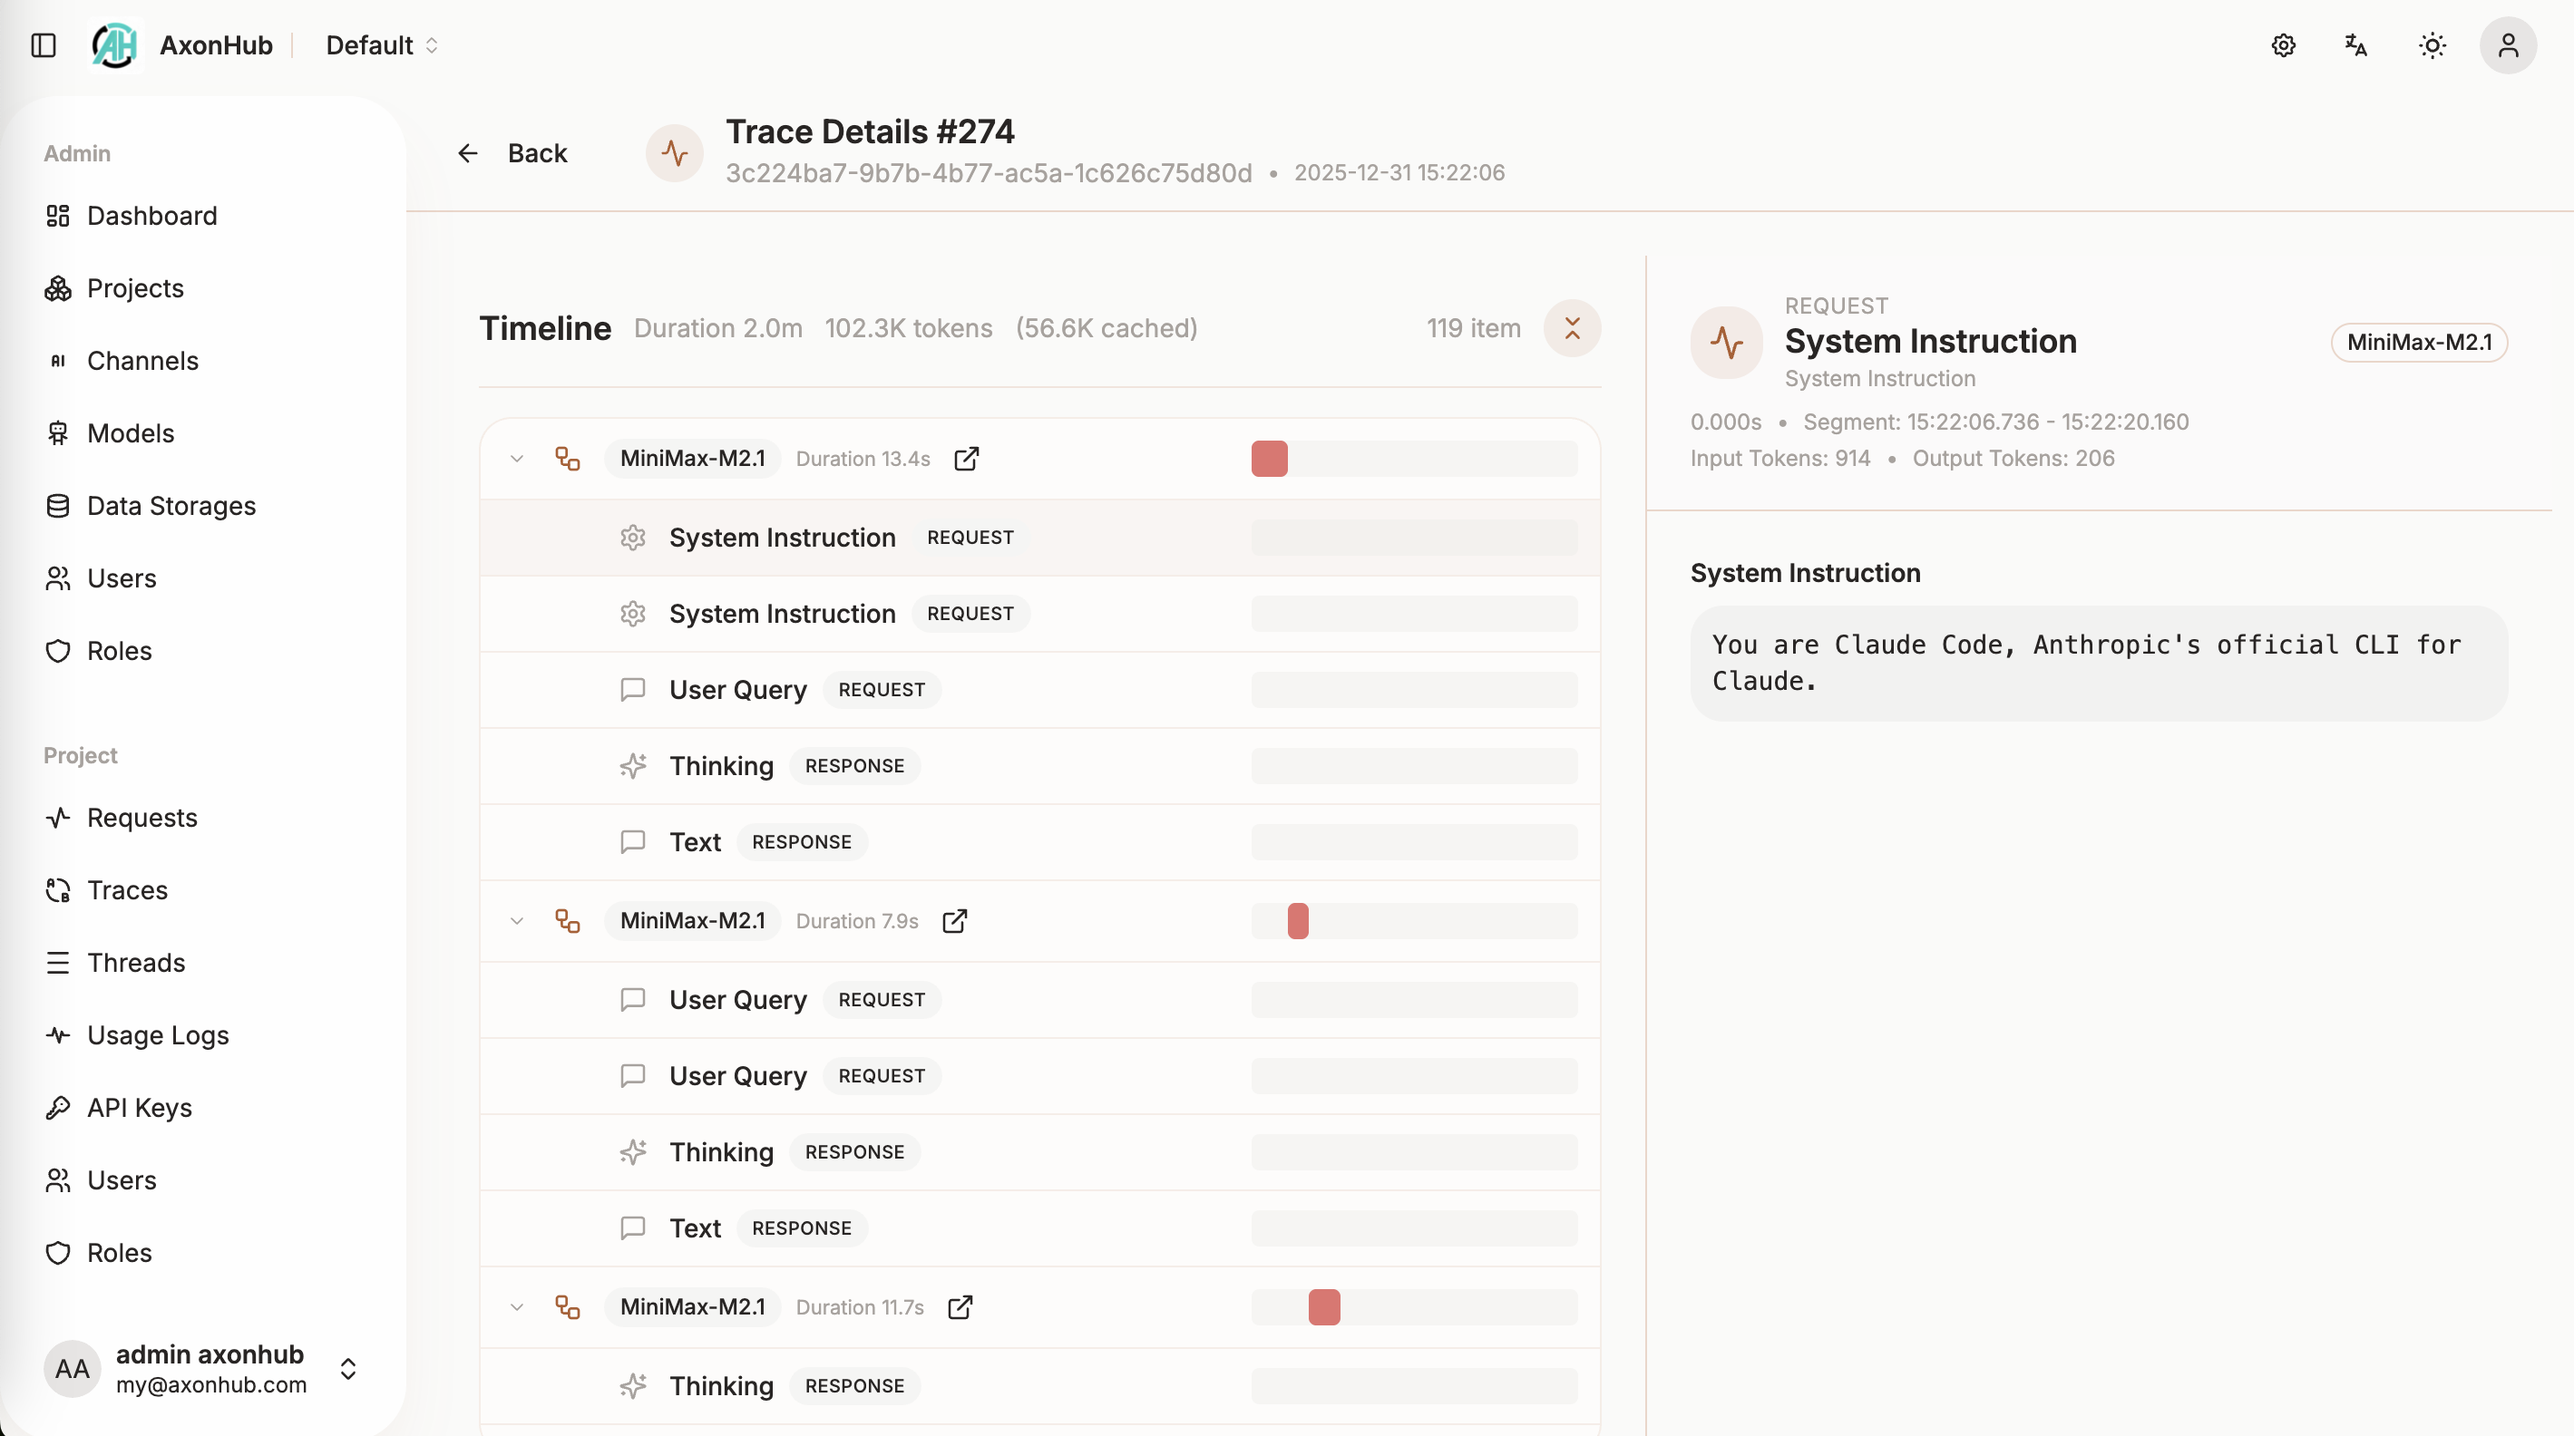
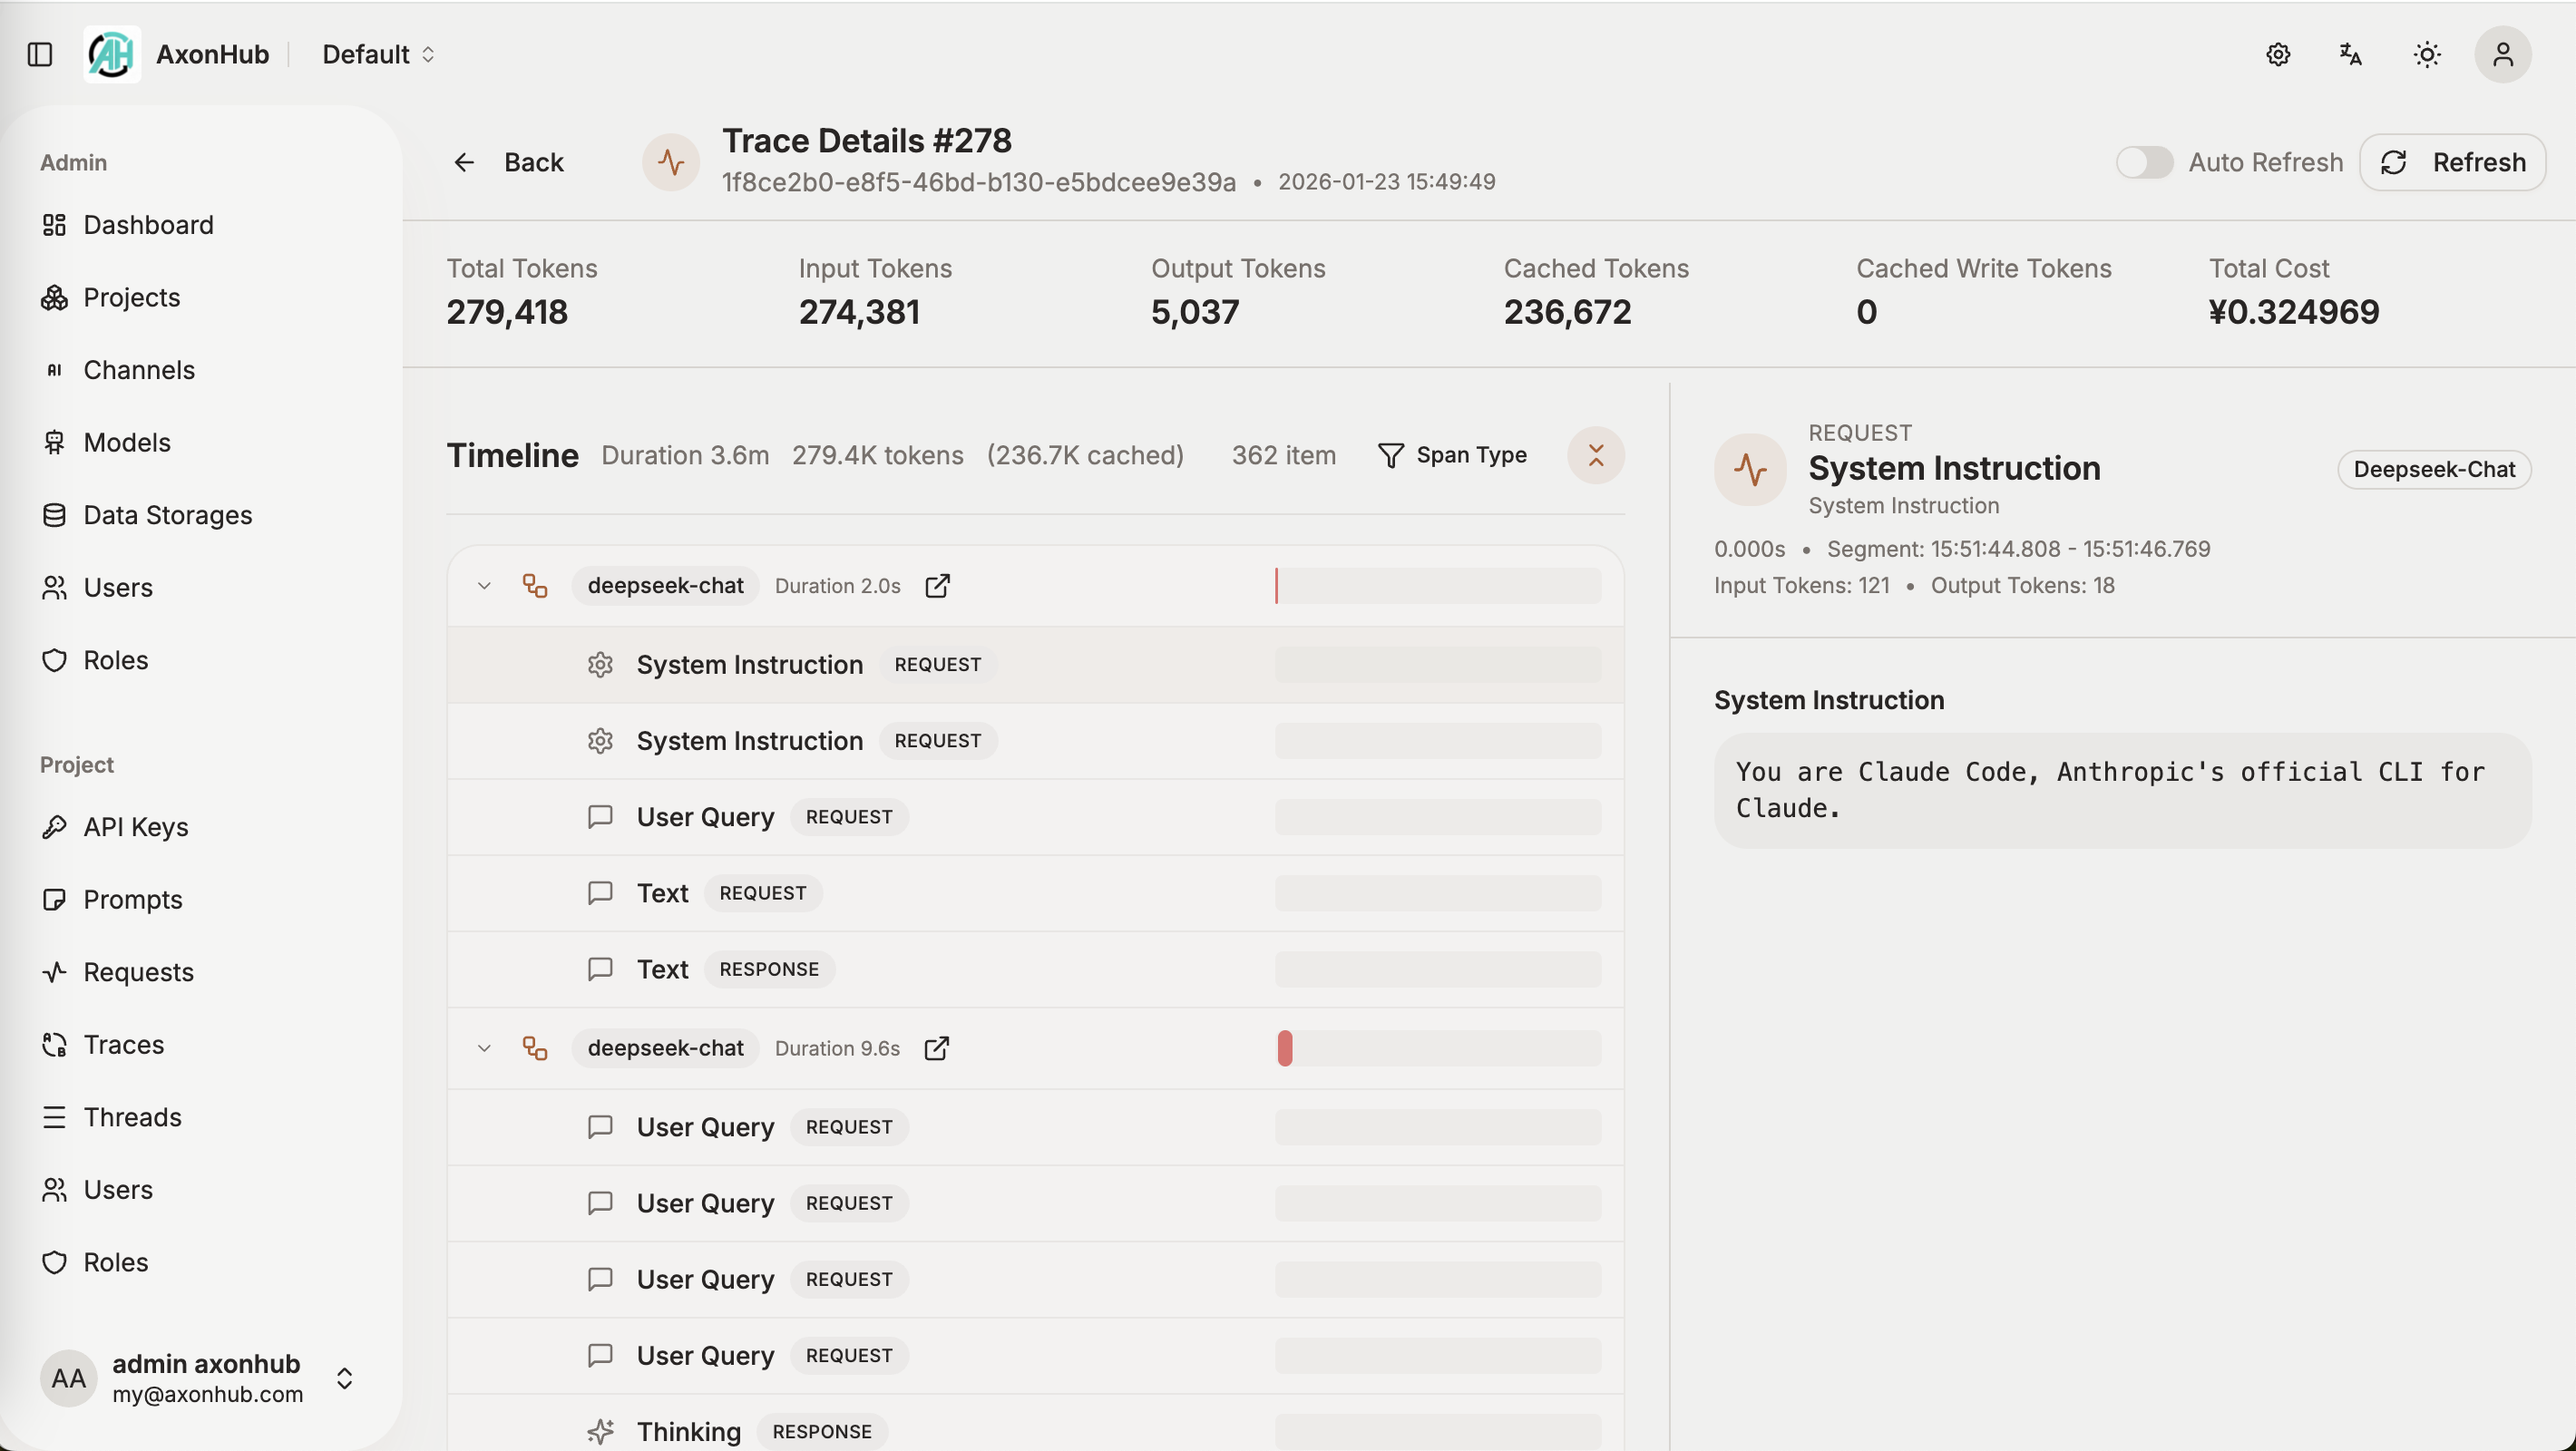
doc: add model price to readme (#652)

diff --git a/README.md b/README.md
@@ -33,6 +33,7 @@ AxonHub is an all-in-one AI development platform that provides unified API gatew
 2. [**Tracing / Threads**](docs/en/guides/tracing.md): Thread-aware tracing captures full request timelines for deep observability and faster debugging.
 3. [**Fine-grained Permission**](docs/en/guides/permissions.md): RBAC-based policies help teams govern access, usage, and data segregation precisely.
 4. [**Adaptive Load Balancing**](docs/en/guides/load-balance.md): Intelligent multi-strategy load balancing automatically selects optimal AI channels based on health, performance, and session consistency.
+5. **Cost Tracking**: Real-time usage monitoring and precise cost calculation for every request, supporting various token types (input, output, cache, etc.).
 
 ---
 
@@ -80,14 +81,21 @@ Here are some screenshots of AxonHub in action:
       Channel Management
     </td>
     <td align="center">
+      <a href="docs/screenshots/axonhub-model-price.png">
+        <img src="docs/screenshots/axonhub-model-price.png" alt="Model Price" width="250"/>
+      </a>
+      <br/>
+      Model Price
+    </td>
+  </tr>
+  <tr>
+  <td align="center">
       <a href="docs/screenshots/axonhub-models.png">
         <img src="docs/screenshots/axonhub-models.png" alt="Models" width="250"/>
       </a>
       <br/>
       Models
     </td>
-  </tr>
-  <tr>
     <td align="center">
       <a href="docs/screenshots/axonhub-trace.png">
         <img src="docs/screenshots/axonhub-trace.png" alt="Trace Viewer" width="250"/>
@@ -101,13 +109,6 @@ Here are some screenshots of AxonHub in action:
       </a>
       <br/>
       Request Monitoring
-    </td>
-    <td align="center">
-      <a href="docs/screenshots/axonhub-usage-logs.png">
-        <img src="docs/screenshots/axonhub-usage-logs.png" alt="Usage Logs" width="250"/>
-      </a>
-      <br/>
-      Usage Logs
     </td>
   </tr>
 </table>
@@ -145,6 +146,16 @@ AxonHub records every request as part of a thread-aware trace without requiring 
 - Capture model metadata, prompt / response spans, and timing information for fast root-cause analysis
 
 Learn more about how tracing works and how to integrate it in the [Tracing Guide](docs/en/guides/tracing.md).
+
+### 💰 Cost Tracking
+
+AxonHub provides real-time cost calculation and usage tracking for every request:
+
+- **Multi-dimensional Tracking**: Tracks input (prompt), output (completion), cached (read/write), reasoning, and audio tokens.
+- **Precise Calculation**: Real-time cost calculation based on configurable model pricing (price per 1M tokens).
+- **Cache Discounts**: Supports specialized pricing for cached tokens to accurately reflect provider cost savings.
+- **Detailed Breakdown**: Every request includes a granular cost breakdown (e.g., how much was spent on input vs. output vs. cache).
+- **Quota Management**: Aggregate costs across projects and API keys to enforce usage limits and budgets.
 
 ### 🔧 API Format Support
 
